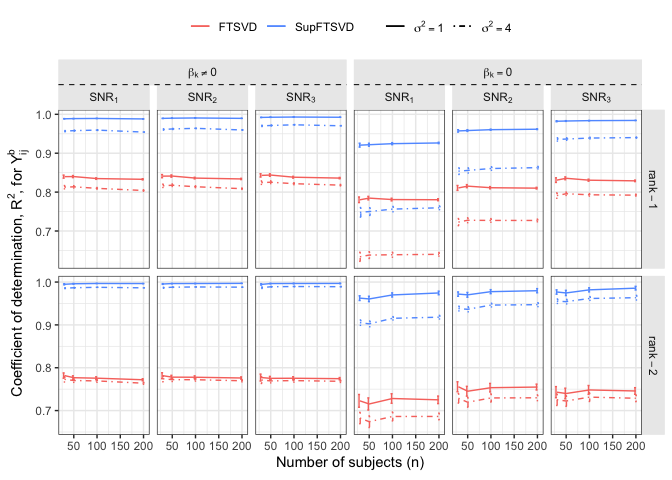
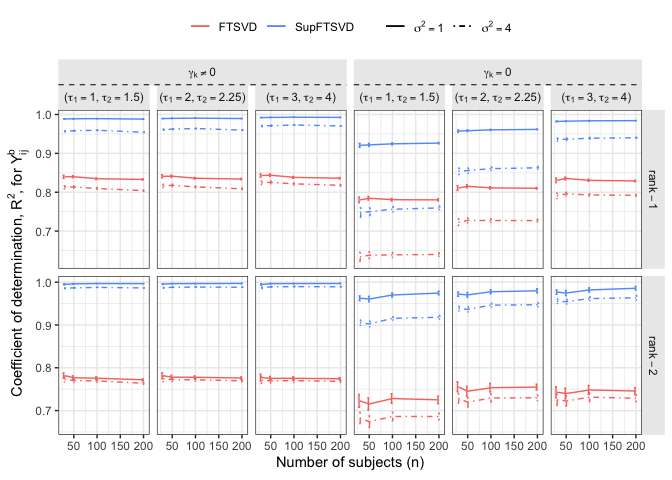
new figure

diff --git a/README.md b/README.md
@@ -40,8 +40,11 @@ Res3g3us<-read.csv(paste(dirP,fname[10],sep = ""))
 ```
 
 ``` r
+#ifelse(Sig2E==1,"paste(SNR[1])",ifelse(Sig2E==2,"paste(SNR[2])","paste(SNR[3])"))
 Res2_dat<-Res2g3 %>%
-  mutate(SNR=ifelse(Sig2E==1,"paste(SNR[1])",ifelse(Sig2E==2,"paste(SNR[2])","paste(SNR[3])")),
+  mutate(SNR=factor(ifelse(Sig2E==1,"paste(SNR[1])",ifelse(Sig2E==2,"paste(SNR[2])","paste(SNR[3])")),labels=c(expression("("*list(tau[1]==1,tau[2]==1.5)*")"),
+                             expression("("*list(tau[1]==2,tau[2]==2.25)*")"),
+                             expression("("*list(tau[1]==3,tau[2]==4)*")"))),
          xiFTSVD1=sqrt(xiFTSVD1),
          xiSupFTSVD1=sqrt(xiSupFTSVD1)) %>%
   dplyr::select(Tau,n,comp,Grid,SNR,Tau,FTSVD1MP,bFTSVD1,xiFTSVD1,SupFTSVD1CM,bSupFTSVD1,xiSupFTSVD1,FTSVD1,SupFTSVD1,Cov2R,SupCov2R,AR2_FTSVD1,AR2_SupFTSVD1) %>%
@@ -56,7 +59,9 @@ Res2_dat<-Res2g3 %>%
 
 ``` r
 Res2_dat_us<-Res2g3us %>%
-  mutate(SNR=ifelse(Sig2E==1,"paste(SNR[1])",ifelse(Sig2E==2,"paste(SNR[2])","paste(SNR[3])")),
+  mutate(SNR=factor(ifelse(Sig2E==1,"paste(SNR[1])",ifelse(Sig2E==2,"paste(SNR[2])","paste(SNR[3])")),labels=c(expression("("*list(tau[1]==1,tau[2]==1.5)*")"),
+                             expression("("*list(tau[1]==2,tau[2]==2.25)*")"),
+                             expression("("*list(tau[1]==3,tau[2]==4)*")"))),
          xiFTSVD1=sqrt(xiFTSVD1),
          xiSupFTSVD1=sqrt(xiSupFTSVD1)) %>%
   dplyr::select(Tau,n,comp,Grid,SNR,Tau,FTSVD1MP,bFTSVD1,xiFTSVD1,SupFTSVD1CM,bSupFTSVD1,xiSupFTSVD1,FTSVD1,SupFTSVD1,Cov2R,SupCov2R,AR2_FTSVD1,AR2_SupFTSVD1) %>%
@@ -79,10 +84,13 @@ Res3_dat<-Res3g3 %>%
   pivot_longer(cols = ends_with("FTSVD"),names_to = c("Var",".value"),
                names_sep = "_") %>%
   pivot_longer(c("FTSVD","SupFTSVD"),names_to = "Method",values_to = "FuncV") %>%
-  mutate(SNR=recode(SNR,
+  mutate(SNR=factor(recode(SNR,
                     "1"="paste(SNR[1])",
                     "2"="paste(SNR[2])",
                     "3"="paste(SNR[3])"),
+                    labels=c(expression("("*list(tau[1]==1,tau[2]==1.5)*")"),
+                             expression("("*list(tau[1]==2,tau[2]==2.25)*")"),
+                             expression("("*list(tau[1]==3,tau[2]==4)*")"))),
          SamT=factor(ifelse(Tau==1,"paste(sigma^2==1)","paste(sigma^2==4)"),levels=c("paste(sigma^2==1)","paste(sigma^2==4)")),
          Model="2")
 ```
@@ -97,10 +105,13 @@ Res3_dat_us<-Res3g3us %>%
   pivot_longer(cols = ends_with("FTSVD"),names_to = c("Var",".value"),
                names_sep = "_") %>%
   pivot_longer(c("FTSVD","SupFTSVD"),names_to = "Method",values_to = "FuncV") %>%
-  mutate(SNR=recode(SNR,
+  mutate(SNR=factor(recode(SNR,
                     "1"="paste(SNR[1])",
                     "2"="paste(SNR[2])",
                     "3"="paste(SNR[3])"),
+                    labels=c(expression("("*list(tau[1]==1,tau[2]==1.5)*")"),
+                             expression("("*list(tau[1]==2,tau[2]==2.25)*")"),
+                             expression("("*list(tau[1]==3,tau[2]==4)*")"))),
          SamT=factor(ifelse(Tau==1,"paste(sigma^2==1)","paste(sigma^2==4)"),levels=c("paste(sigma^2==1)","paste(sigma^2==4)")),
          Model="2")
 ```
@@ -128,7 +139,7 @@ Res2_dat %>%
                       "2"="rank-2")) %>%
   group_by(Model,Tau,SNR,n,Scenario,Method) %>%
   summarise_if(is.numeric,c("mean","sd","length")) %>%
-  mutate(Scenario=ifelse(Scenario=="Sup","paste(bold(beta)[k]!=0)","paste(bold(beta)[k]==0)")) %>%
+  mutate(Scenario=ifelse(Scenario=="Sup","paste(bold(gamma)[k]!=0)","paste(bold(gamma)[k]==0)")) %>%
   ggplot(aes(x=n,y=FuncV_mean,group=interaction(Method,Tau),color=Method)) +
   geom_line(aes(linetype=as.factor(Tau))) +
   geom_errorbar(aes(ymin=FuncV_mean-2*(FuncV_sd/sqrt(FuncV_length)),ymax=FuncV_mean+2*(FuncV_sd/sqrt(FuncV_length)),linetype=as.factor(Tau)),
@@ -172,7 +183,7 @@ Res2_dat %>%
   filter(Var=="e") %>%
   group_by(ModelComp,Tau,SNR,n,Scenario,Method) %>%
   summarise_if(is.numeric,c("mean","sd","length")) %>%
-  mutate(Scenario=ifelse(Scenario=="Sup","paste(bold(beta)[k]!=0)","paste(bold(beta)[k]==0)")) %>%
+  mutate(Scenario=ifelse(Scenario=="Sup","paste(bold(gamma)[k]!=0)","paste(bold(gamma)[k]==0)")) %>%
   ggplot(aes(x=n,y=FuncV_mean,group=interaction(Method,Tau),color=Method)) +
   geom_line(aes(linetype=as.factor(Tau))) +
   geom_errorbar(aes(ymin=FuncV_mean-2*(FuncV_sd/sqrt(FuncV_length)),ymax=FuncV_mean+2*(FuncV_sd/sqrt(FuncV_length)),linetype=as.factor(Tau)),
